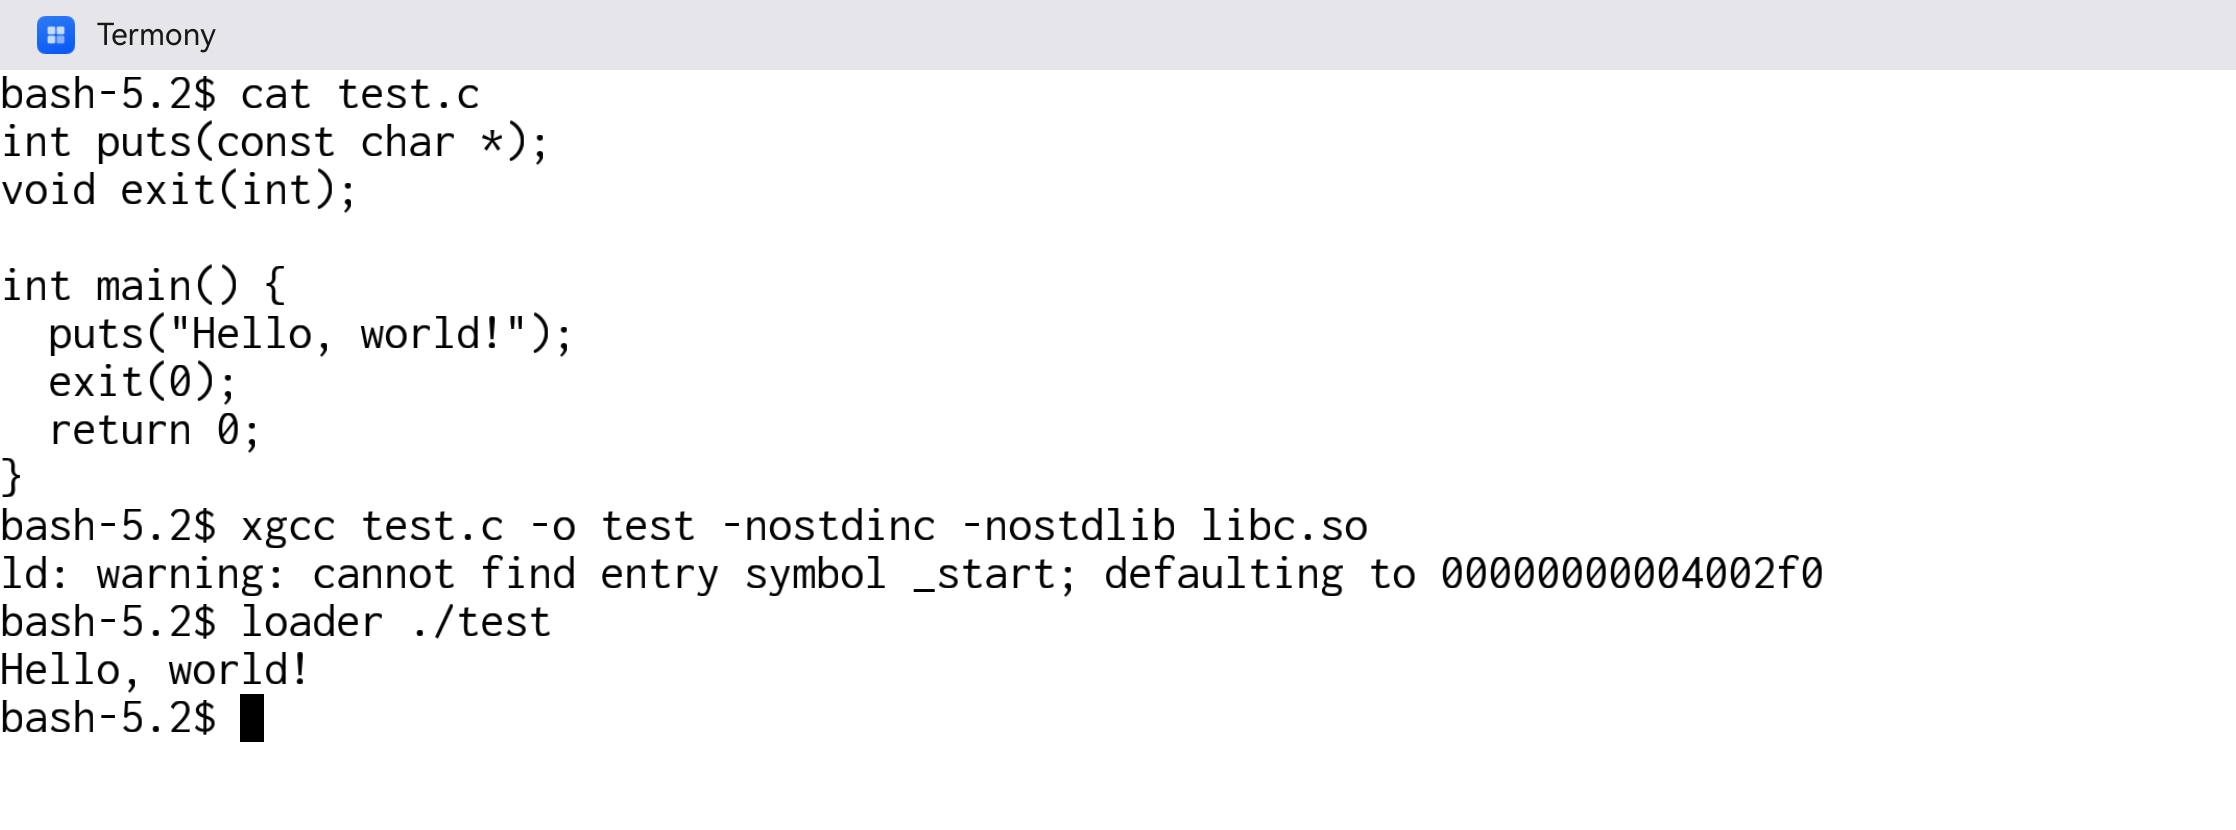
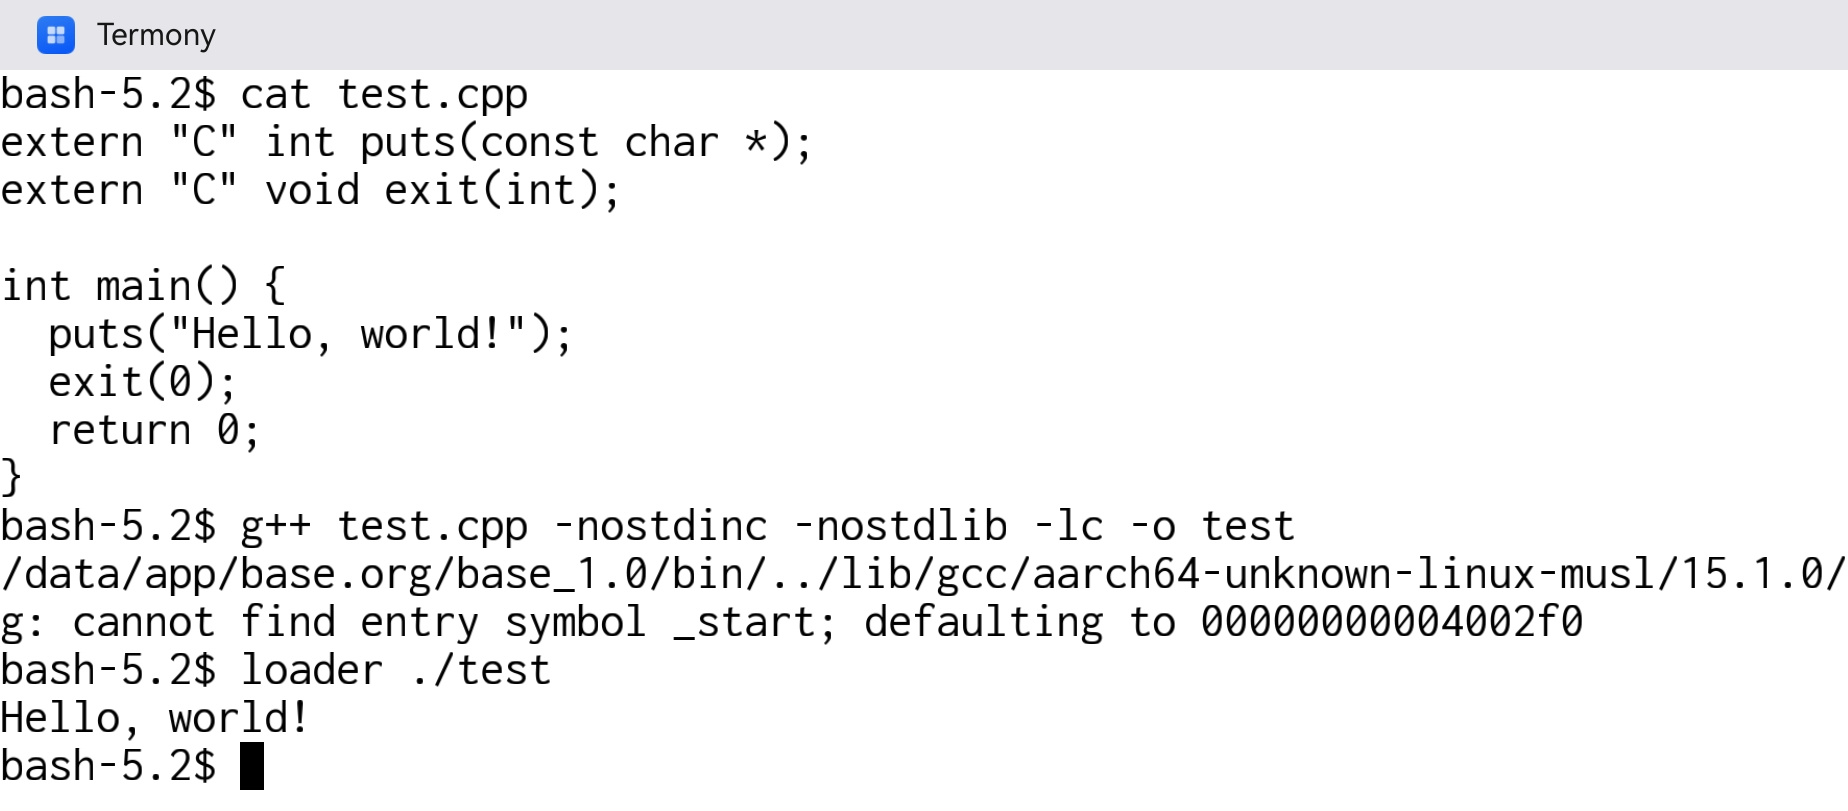
Use g++ in README

diff --git a/README.md b/README.md
@@ -6,7 +6,7 @@ It can run some basic commands on Huawei MateBook Pro now:
 
 ![](./screenshot.jpg)
 
-Also compile and run C programs on HarmonyOS Computer:
+Also compile and run C/c++ programs on HarmonyOS Computer:
 
 ![](./screenshot_gcc.jpg)
 
